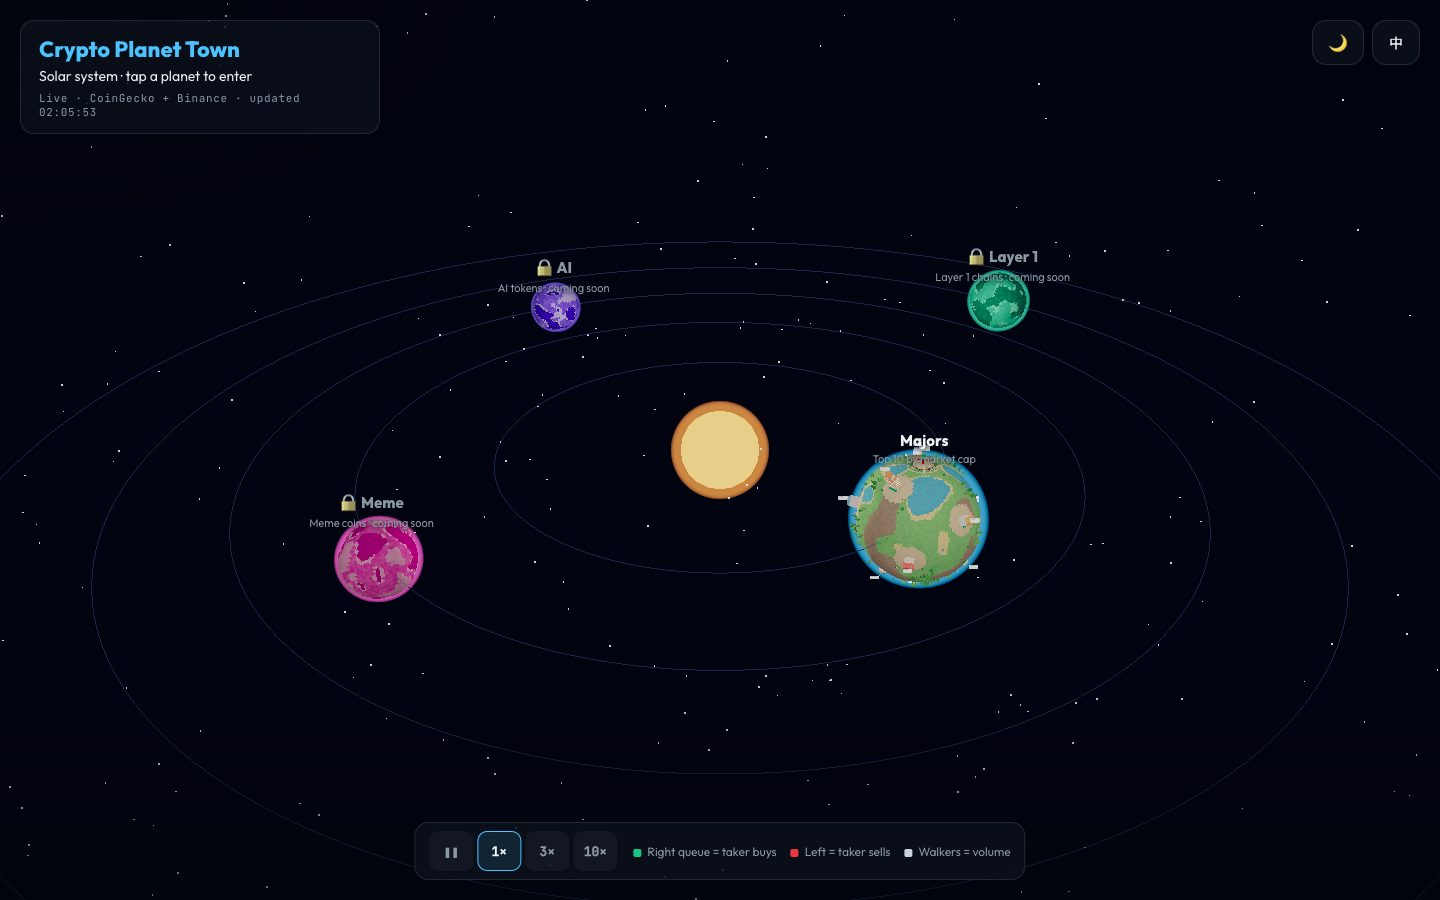
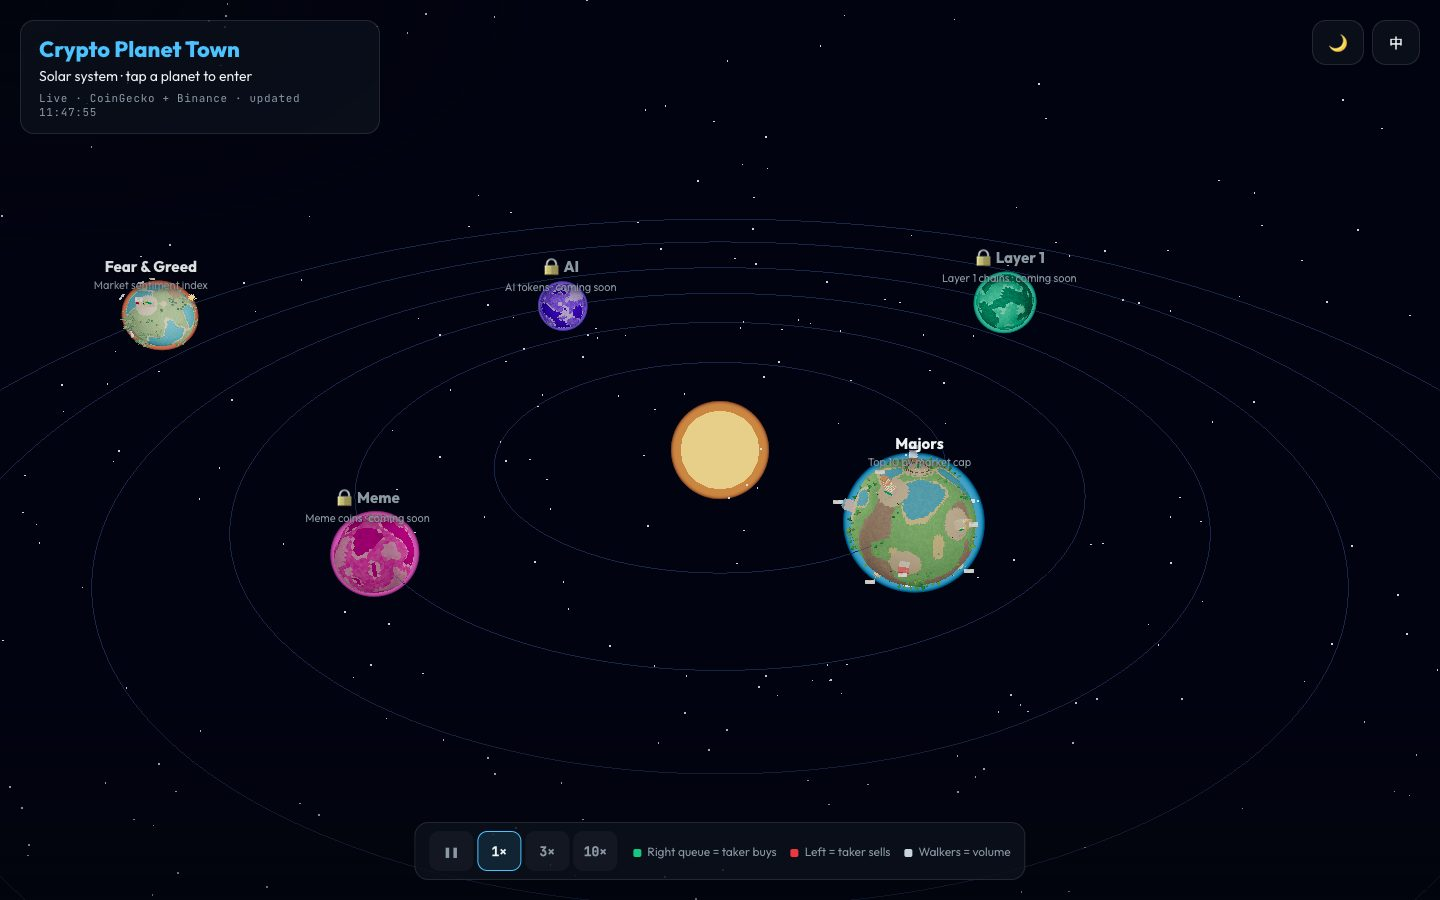
docs: introduce the Fear & Greed planet in both READMEs

diff --git a/CLAUDE.md b/CLAUDE.md
@@ -1,6 +1,6 @@
 # CLAUDE.md — 加密星球小鎮（crypto-planet）
 
-靜態網站：把加密貨幣市場畫成低多邊形太陽系。每個分類一顆星球，每個幣種（或 ETF）是星球上的一間店。沒有後端，部署在 GitHub Pages。主流星由瀏覽器直接呼叫公開 API；ETF 星的資料要 API Key，由 GitHub Actions 抓好成 `etf.json` 一起部署。使用者面向的說明在 README.md，這份只記錄開發時需要知道的事。
+靜態網站：把加密貨幣市場畫成低多邊形太陽系。每個分類一顆星球，每個幣種（或 ETF）是星球上的一間店；恐懼貪婪星例外，是一座大儀表加整顆星球的天氣。沒有後端，部署在 GitHub Pages。主流星由瀏覽器直接呼叫公開 API；ETF 星的資料要 API Key，由 GitHub Actions 抓好成 `etf.json` 一起部署。使用者面向的說明在 README.md，這份只記錄開發時需要知道的事。
 
 ## 指令
 
@@ -34,6 +34,7 @@ node --env-file=.env.local scripts/fetch-etf.mjs   # 用 SoSoValue Key 產生 pu
 
 - **視角狀態**：`solar`（太陽系）→ `planet`（星球全景）→ `shop`（店門口或爆倉公園特寫），飛行中為 `flying`。`state.focusKey` 是幣種 id 或 `'park'`。`body[data-view]` 與 `body[data-theme]` 供 E2E 判斷狀態。
 - **小鎮佈局**：`townSpots({ park })` 用費氏螺旋把點撒在整顆星球上。主流星有公園：第 0 點（北極）是爆倉公園，其後依市值排名往南排；ETF 星沒有公園，全部是店面。地形的平坦廣場也用同一組點。
+- **恐懼貪婪星**（`mood`）：`scenes/mood-planet.js` 實作跟 `createTown` 一樣的介面（`setData`、`pick`、`shopFrame`、`mappedAt`…），所以沿用同一套視角流程；底部列只有一個項目 `fng`。儀表不在北極，而是往鏡頭方向偏（`MOOD_SPOTS`），進星球時才不會被切到畫面上緣。雲和雨繞著儀表方向飄、避開儀表上方；太陽依螢幕寬高比放在右側或左上方（`setAspect`），避開四角的介面。
 - **多顆小鎮星球**：`main.js` 的 `towns` Map（`major`、`etf`）。`townOf(state.focused)` 取得目前所在星球的小鎮；店面清單的共通欄位是 `mapped.coin.id`、`mapped.coin.symbol`、`mapped.sign`（招牌與底部列文字）。
 - **店面切面座標**：店在原點、門朝 +z（南），從正面看右邊（+x）排買方、左邊（-x）排賣方。人潮、欄杆、路燈都用 `groundHeight()` 貼著彎曲的球面。
 
@@ -44,6 +45,8 @@ node --env-file=.env.local scripts/fetch-etf.mjs   # 用 SoSoValue Key 產生 pu
 - **建築用「絕對」市值分級**（`src/data/tiers.js`），以後的迷因星小幣自然就是小攤。
 - **爆倉公園只用 OKX 資料，不是全網。** 使用者看過 Coinglass，但它的內部 API 是加密的；拆解加密等於繞過網站保護，所以不採用。付費或要 Key 的方案（Coinglass、Coinalyze）暫不使用。介面上必須保留「僅 OKX、非全網」的標示。
 - **ETF 星用 SoSoValue 官方 API**（免費 Key）。舊的免 Key 端點 `api.sosovalue.xyz` 已下線（404）；Farside 有 Cloudflare 防爬蟲保護、DefiLlama 沒有公開的 ETF API，兩者都不採用。範圍是美國現貨 ETF，**依幣種加總、一個幣種一棟**（`ETF_ASSETS`：BTC、ETH、SOL、XRP；使用者覺得每檔 ETF 一棟太多）。BTC、ETH 抓不到就整體失敗，SOL、XRP 抓不到只略過那一棟。每個幣種只打 `/etfs`（代號清單）與 `/etfs/summary-history`（總計）兩個請求。綠色隊伍＝淨流入、紅色隊伍＝淨流出。
+- **不架後端。** 需要共享狀態的功能（例如讓訪客投票看漲或看跌）都不做；新功能只能用瀏覽器直接打公開 API，或由 GitHub Actions 預先抓好成 JSON。
+- **恐懼貪婪星用 alternative.me 的指數**（免 Key、允許跨網域，瀏覽器直接抓，每小時檢查一次）。分級用它實際資料的分界（≤25、≤46、≤54、≤75、其餘），名稱由我們自己翻譯，不採用 API 回傳的字串。抓不到時這顆星上鎖，不用範例資料。
 - 即時爆倉隕石做過又拿掉了：主流幣在平靜行情下的即時爆倉太稀疏，畫面上幾乎看不到。
 - 日夜模式預設依當地時間（06–18 為白天），使用者切換後記在 localStorage。
 - 支援手機。直式螢幕用 `fitFactor()` 把鏡頭拉遠。

diff --git a/README.en.md b/README.en.md
@@ -12,7 +12,7 @@ The crypto market as a tiny low-poly solar system: **each sector is a planet, an
 
 ### 🪐 Solar system
 
-Tap a planet to fly in. **Majors** and **ETF** are open now; Meme, AI and Layer 1 planets are coming soon.
+Tap a planet to fly in. **Majors**, **ETF** and **Fear & Greed** are open now; Meme, AI and Layer 1 planets are coming soon.
 
 ![Solar system](docs/screenshots/en/solar.jpg)
 
@@ -52,6 +52,20 @@ Fund flows settle on a **T+1** basis, so the numbers are from the latest settled
 
 ![ETF planet](docs/screenshots/en/etf-planet.jpg)
 
+### 🌦 Fear & Greed planet: market sentiment
+
+Shows the crypto **Fear & Greed Index**: 0 is extreme fear, 100 is extreme greed, and it updates once a day.
+
+| What you see | What it means |
+|---|---|
+| The needle on the big gauge | Today's score, on a scale from red (fear) to green (greed) |
+| Dark clouds and rain | Fear: the lower the score, the more clouds and the heavier the rain |
+| The sun | Greed: the higher the score, the bigger the sun and the fewer the clouds |
+
+Tap the gauge or F&G at the bottom to see yesterday's, last week's and last month's scores, plus the last 30 days.
+
+![Fear & Greed planet](docs/screenshots/en/fear-greed.jpg)
+
 ### 🌙 Day and night · 📱 Mobile
 
 Switch between day and night in the top-right corner; by default it follows your local time (day is 06:00–18:00). On phones the info cards become bottom drawers and the coin bar scrolls sideways.
@@ -66,6 +80,7 @@ Switch between day and night in the top-right corner; by default it follows your
 | [Binance](https://www.binance.com/) | 24h volume, taker buys and sells, number of trades | Every 60 seconds |
 | [OKX](https://www.okx.com/) | 24h liquidations in the Liquidation Park (OKX only) | Every 5 minutes |
 | [SoSoValue](https://sosovalue.com/) | ETF fund flows, net assets, value traded | Twice a day |
+| [Alternative.me](https://alternative.me/crypto/fear-and-greed-index/) | Fear & Greed Index | Once a day |
 
 If live data can't be reached, the site falls back to bundled sample data and says so in the top-left corner.
 

diff --git a/README.md b/README.md
@@ -12,7 +12,7 @@
 
 ### 🪐 太陽系
 
-點一顆星球就會飛進去。目前開放 **主流星** 與 **ETF 星**，迷因、AI、公鏈星球即將開放。
+點一顆星球就會飛進去。目前開放 **主流星**、**ETF 星** 與 **恐懼貪婪星**，迷因、AI、公鏈星球即將開放。
 
 ![太陽系](docs/screenshots/solar.jpg)
 
@@ -52,6 +52,20 @@
 
 ![ETF 星](docs/screenshots/etf-planet.jpg)
 
+### 🌦 恐懼貪婪星：市場情緒
+
+顯示加密貨幣的 **恐懼與貪婪指數（Fear & Greed Index）**：0 分是極度恐懼、100 分是極度貪婪，每天更新一次。
+
+| 畫面 | 代表什麼 |
+|---|---|
+| 大儀表的指針 | 今天的分數，刻度由紅（恐懼）到綠（貪婪） |
+| 烏雲與下雨 | 恐懼：分數越低，雲越多、雨越大 |
+| 太陽 | 貪婪：分數越高，太陽越大、雲越少 |
+
+點儀表或下方的 F&G 可以看到昨天、一週前、一個月前的分數，以及近 30 天的走勢。
+
+![恐懼貪婪星](docs/screenshots/fear-greed.jpg)
+
 ### 🌙 白天與夜晚・📱 手機
 
 右上角可以切換白天或夜晚，預設依你的當地時間（06:00–18:00 為白天）。手機上資訊卡會變成底部抽屜，下方的幣種列可以左右滑動。
@@ -66,6 +80,7 @@
 | [Binance](https://www.binance.com/) | 24 小時成交額、主動買入／賣出、成交筆數 | 每 60 秒 |
 | [OKX](https://www.okx.com/) | 爆倉公園的 24 小時爆倉（僅 OKX） | 每 5 分鐘 |
 | [SoSoValue](https://sosovalue.com/) | ETF 資金流、資產規模、成交額 | 每天兩次 |
+| [Alternative.me](https://alternative.me/crypto/fear-and-greed-index/) | 恐懼與貪婪指數 | 每天一次 |
 
 即時資料暫時抓不到時會改用內建的範例資料，左上角會標示。
 
